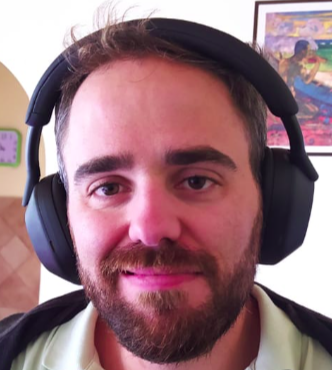
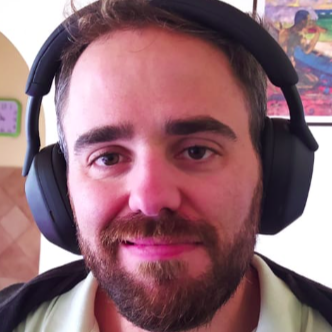
unit tests added. drivers photos added.

diff --git a/src/unit_tests.py b/src/unit_tests.py
@@ -1,0 +1,62 @@
+import unittest
+from unittest.mock import MagicMock
+from objetos import Frame, Rostro
+from motores_de_inferencia import Detector_de_rostros, Motor_de_inferencia, Identificador_de_rostros
+
+class TestFrame(unittest.TestCase):
+    def setUp(self):
+        self.frame = Frame("test_video.mp4")
+
+    def test_update_fps(self):
+        # Mocking time() para devolver un valor predefinido
+        self.frame.counter = 5
+        with unittest.mock.patch('time.time', return_value=10):
+            self.frame.update_fps()
+        self.assertEqual(self.frame.fps, 5)
+
+class TestDetectorDeRostros(unittest.TestCase):
+    def setUp(self):
+        self.detector = Detector_de_rostros("../modelos/face-detection-retail-0004/face-detection-retail-0004.xml", "../modelos/face-detection-retail-0004/face-detection-retail-0004.bin", "CPU", 0.5)
+        # Mocking super().procesar_frame() para retornar un valor predefinido
+        Motor_de_inferencia.procesar_frame = MagicMock(return_value=[[[[0, 1, 2, 3, 4, 5, 6]]]])
+        self.frame = Frame(0)
+        self.frame.shape = [100, 100, 100]
+
+    def test_procesar_frame(self):
+        
+        rostro = self.detector.procesar_frame(self.frame)
+        # Verificando el tipo de rostro
+        self.assertIsInstance(rostro, Rostro)
+        # Verificando location
+        self.assertEqual(rostro.location, {"tl": (270,360), "br": (100,100)})
+        # Verificando confidence
+        self.assertEqual(rostro.confidence, 2)
+
+class TestIdentificadorDeRostros(unittest.TestCase):
+    def setUp(self):
+        self.identificador = Identificador_de_rostros("../modelos/face-reidentification-retail-0095/face-reidentification-retail-0095.xml", "../modelos/face-reidentification-retail-0095/face-reidentification-retail-0095.bin", "CPU", 0.5)
+        # Mocking super().procesar_frame()
+        self.identificador.procesar_frame = MagicMock(return_value=[0.1, 0.2, 0.3, 0.4, 0.5])
+        # Mocking self.choferes_dict
+        self.identificador.choferes_dict = {
+            "Chofer 1": [0.1, 0.2, 0.3, 0.4, 0.5],
+            "Chofer 2": [0.2, 0.3, 0.4, 0.5, 0.6]
+        }
+
+    def test_procesar_frame(self):
+        frame = MagicMock()
+        vector = self.identificador.procesar_frame(frame)
+        self.assertEqual(vector, [0.1, 0.2, 0.3, 0.4, 0.5])
+
+    def test_obtener_nombre_conductor(self):
+        frame = MagicMock()
+        self.identificador.rostro = MagicMock()
+        self.identificador.rostro.nombre = "DESCONOCIDO"
+        self.identificador.confidence_threshold = 0.4
+        # Mocking self.procesar_frame()
+        self.identificador.procesar_frame = MagicMock(return_value=[0.1, 0.2, 0.3, 0.4, 0.5])
+        self.identificador.obtener_nombre_conductor(frame)
+        self.assertEqual(self.identificador.rostro.nombre, "Chofer 1")
+
+if __name__ == '__main__':
+    unittest.main()
